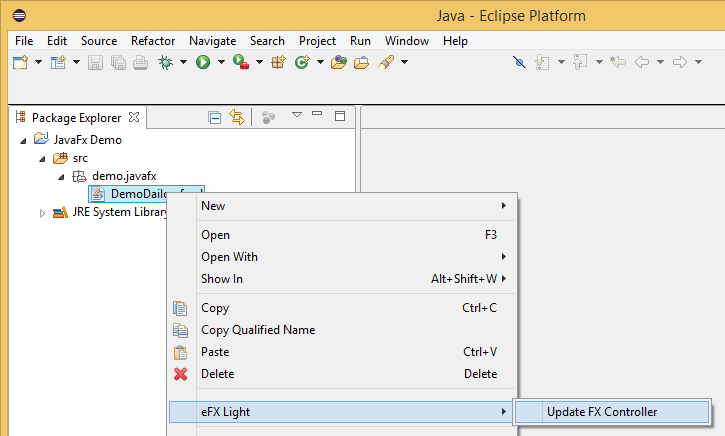
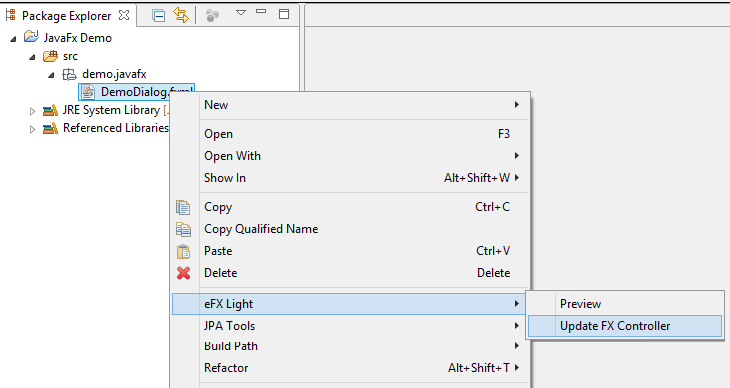
Add a feature tour

diff --git a/index.html b/index.html
@@ -37,20 +37,44 @@
           <h3>
 <a name="welcome-to-github-pages" class="anchor" href="#welcome-to-github-pages"><span class="octicon octicon-link"></span></a>Welcome to eFX - Light</h3>
 
-<p>eFX - Light is a lightweight Java FX plugin for eclipse. This plugin contains useful extentions to increase your producativity with Java FX.</p>
+<p>eFX - Light is a lightweight JavaFX plug-in for eclipse. This plug-in contains useful extentions to increase your productivity with Java FX. This plug-in does not contain a fully featured support for JavaFX in Eclipse. If you are looking for this, please visit <a href="http://www.eclipse.org/efxclipse/index.html">e(fx)clipse</a>. The goal of this plug-in is to support developers to reduce common tasks, which are needed to work on plain JavaFX.</p>
+
+<p>eFX-Light is in a very early stage and should not be used for production.</p>
+
+<p>I hope you will have fun with the plug-in. If you have cool ideas for improvments or extends, please write an issue on github.</p>
+
 
 <h3><a name="designer-templates" class="anchor" href="#designer-templates"><span class="octicon octicon-link"></span></a>Start using eFX-Light</h3>
 <p>
-  Install the eFX-Light plugin in your Eclipse. 
+  Install the eFX-Light plug-in in your Eclipse. 
   <br/> Update Site: <a href="./updatesite">http://thomasfischl.github.io/efxlight/updatesite</a>
 
   <img src="./images/updatesite.png" />
 </p>
 
 <h3><a name="designer-templates" class="anchor" href="#designer-templates"><span class="octicon octicon-link"></span></a>eFX-Light in Action</h3>
-<p>Open the context menu for a JavaFX file in your project and click 'Update FX Controller'</p>
+<p>This sections shows a quick feature overview.</p>
 
+<h4><a name="designer-templates" class="anchor" href="#designer-templates"><span class="octicon octicon-link"></span></a>Prepare Java Project </h4>
+<p>The Java project needs a dependency to the JavaFX runtime. The runtime is located in the JRE or JDK install directory.</p>
+<img src="./images/addjfxrt.png" />
+
+<h4><a name="designer-templates" class="anchor" href="#designer-templates"><span class="octicon octicon-link"></span></a>Create New FXML File</h4>
+<p>Create a new FXML file in your java project.</p>
+<img src="./images/newwizard.png" />
+
+<p>If the JavaFX Scene Builder is installed on the machine, this program will be opened after the new file was created.</p>
+<img src="./images/scenebuilder.png" />
+
+<h4><a name="designer-templates" class="anchor" href="#designer-templates"><span class="octicon octicon-link"></span></a>Create/Update the JavaFX Controller</h4>
+<p>Open the context menu on the FXML file in your project and click 'Update FX Controller'.</p>
 <img src="./images/contextmenu.png" />
+<p>After the create/update process is finished, the controller class opens in a Java editor.</p>
+<img src="./images/javacontroller.png" />
+
+<h4><a name="designer-templates" class="anchor" href="#designer-templates"><span class="octicon octicon-link"></span></a>Preview</h4>
+<p>To get a quick preview of the JavaFx Screen open the context menu on the FXML file and click 'Preview'. This will open a new JavaFX window with the content of the file.</p>
+<img src="./images/preview.png" />
 
         </article>
       </div>
